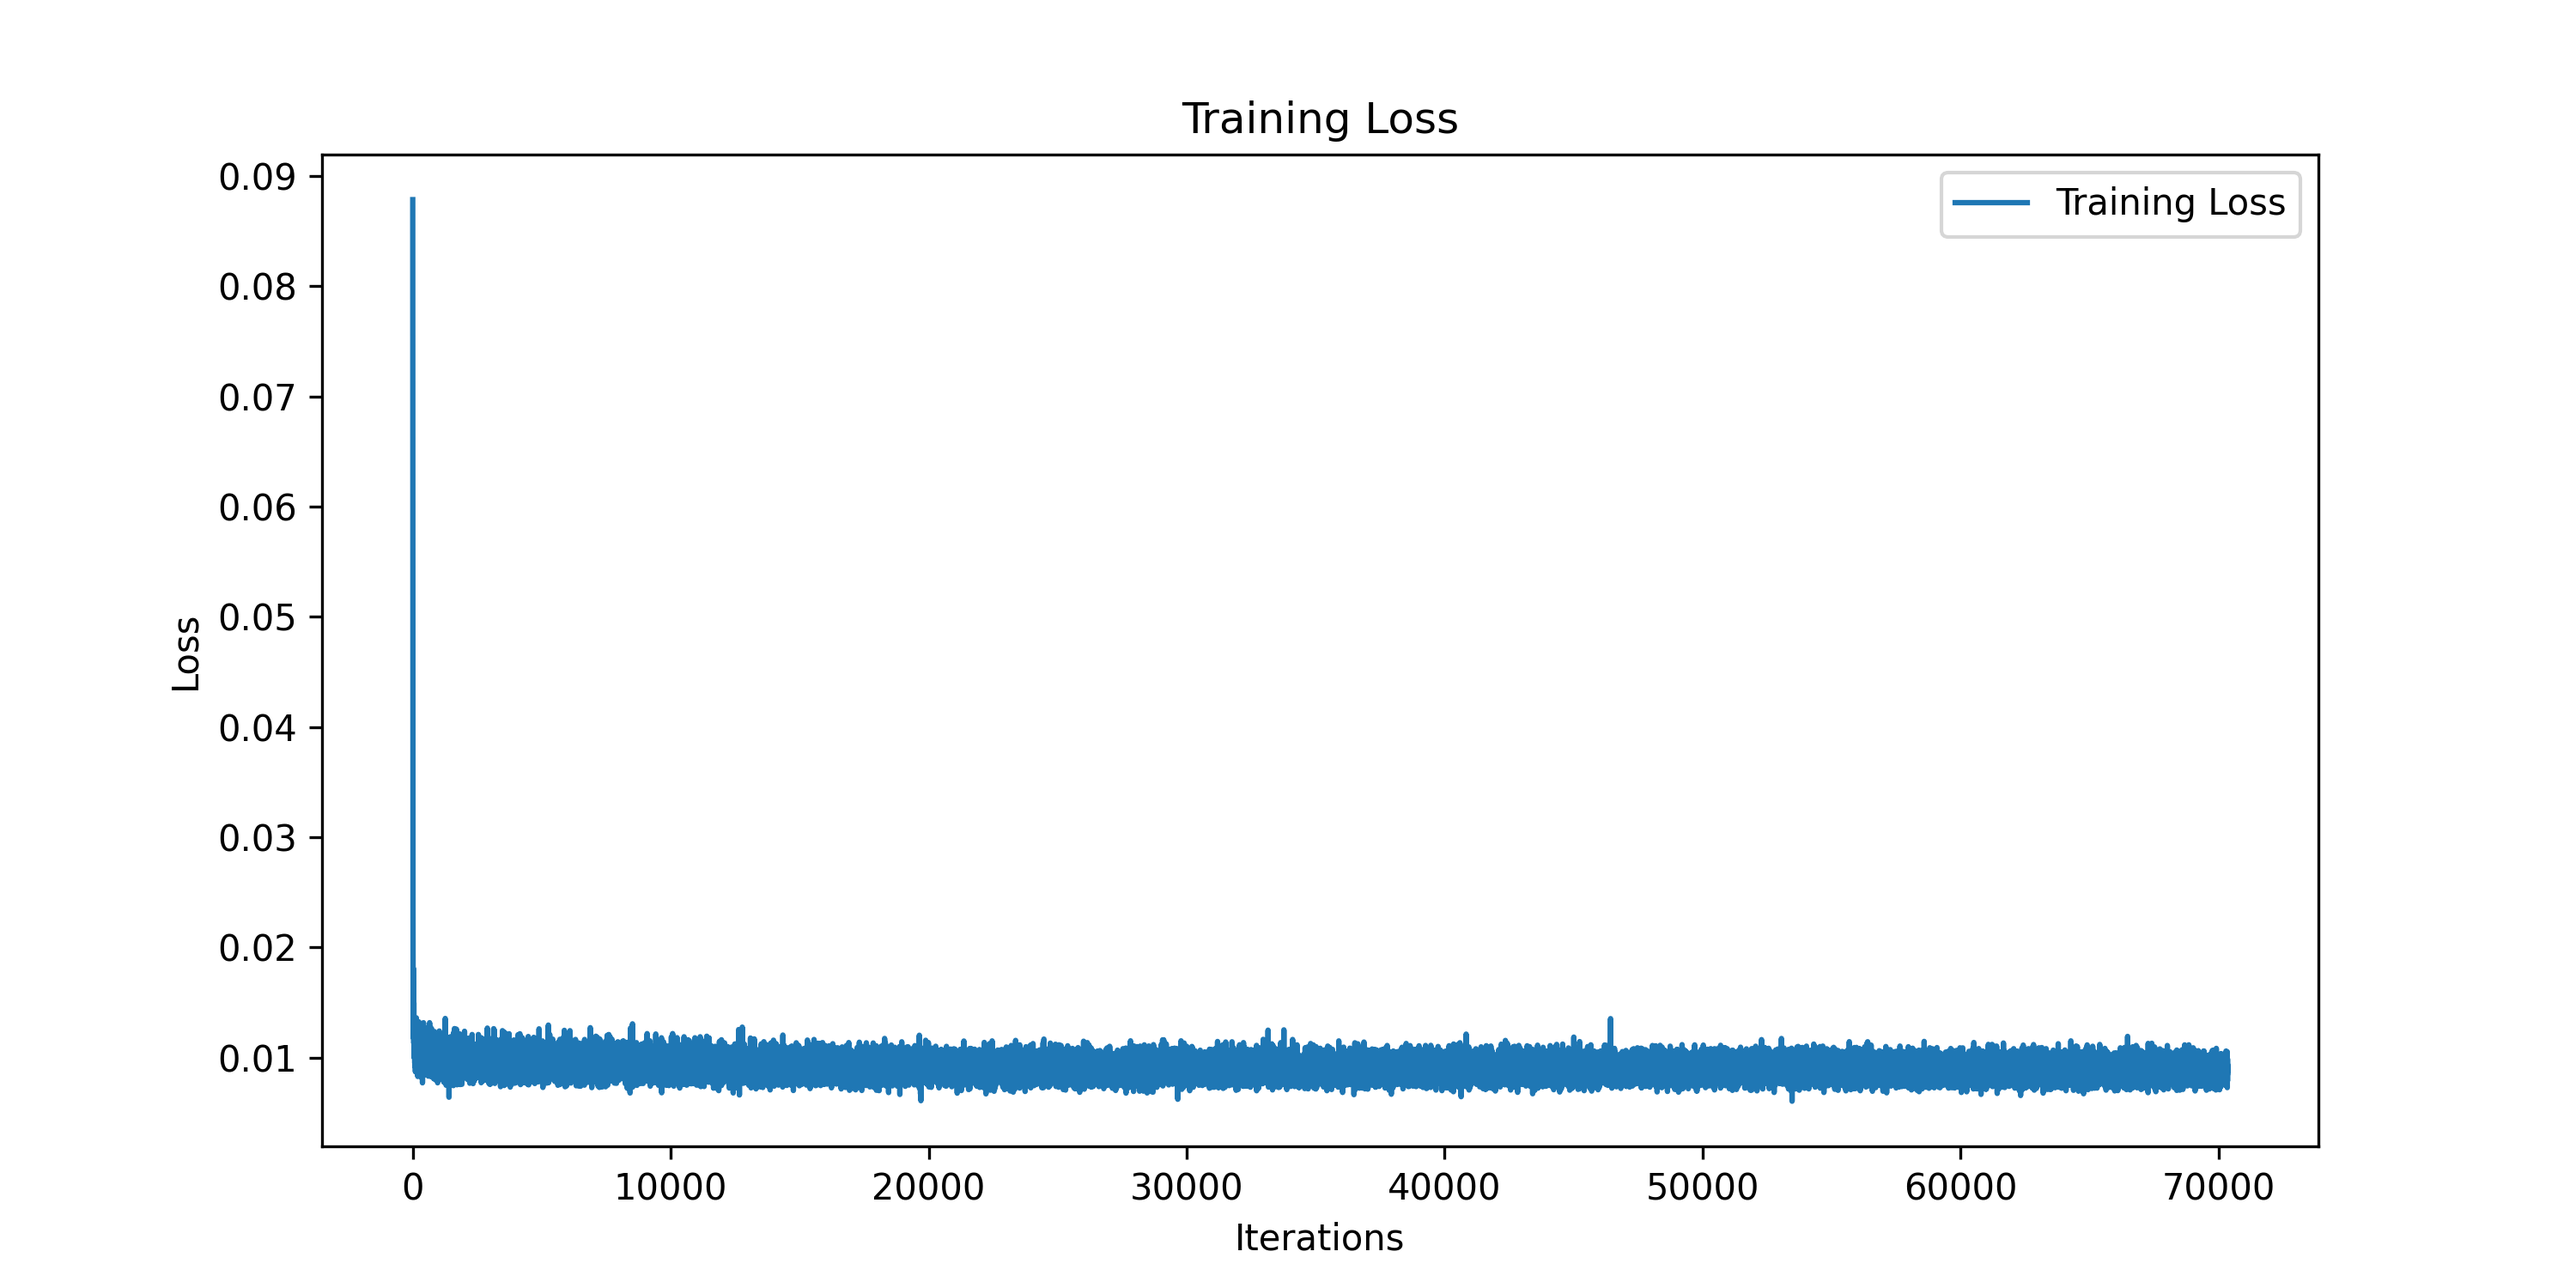
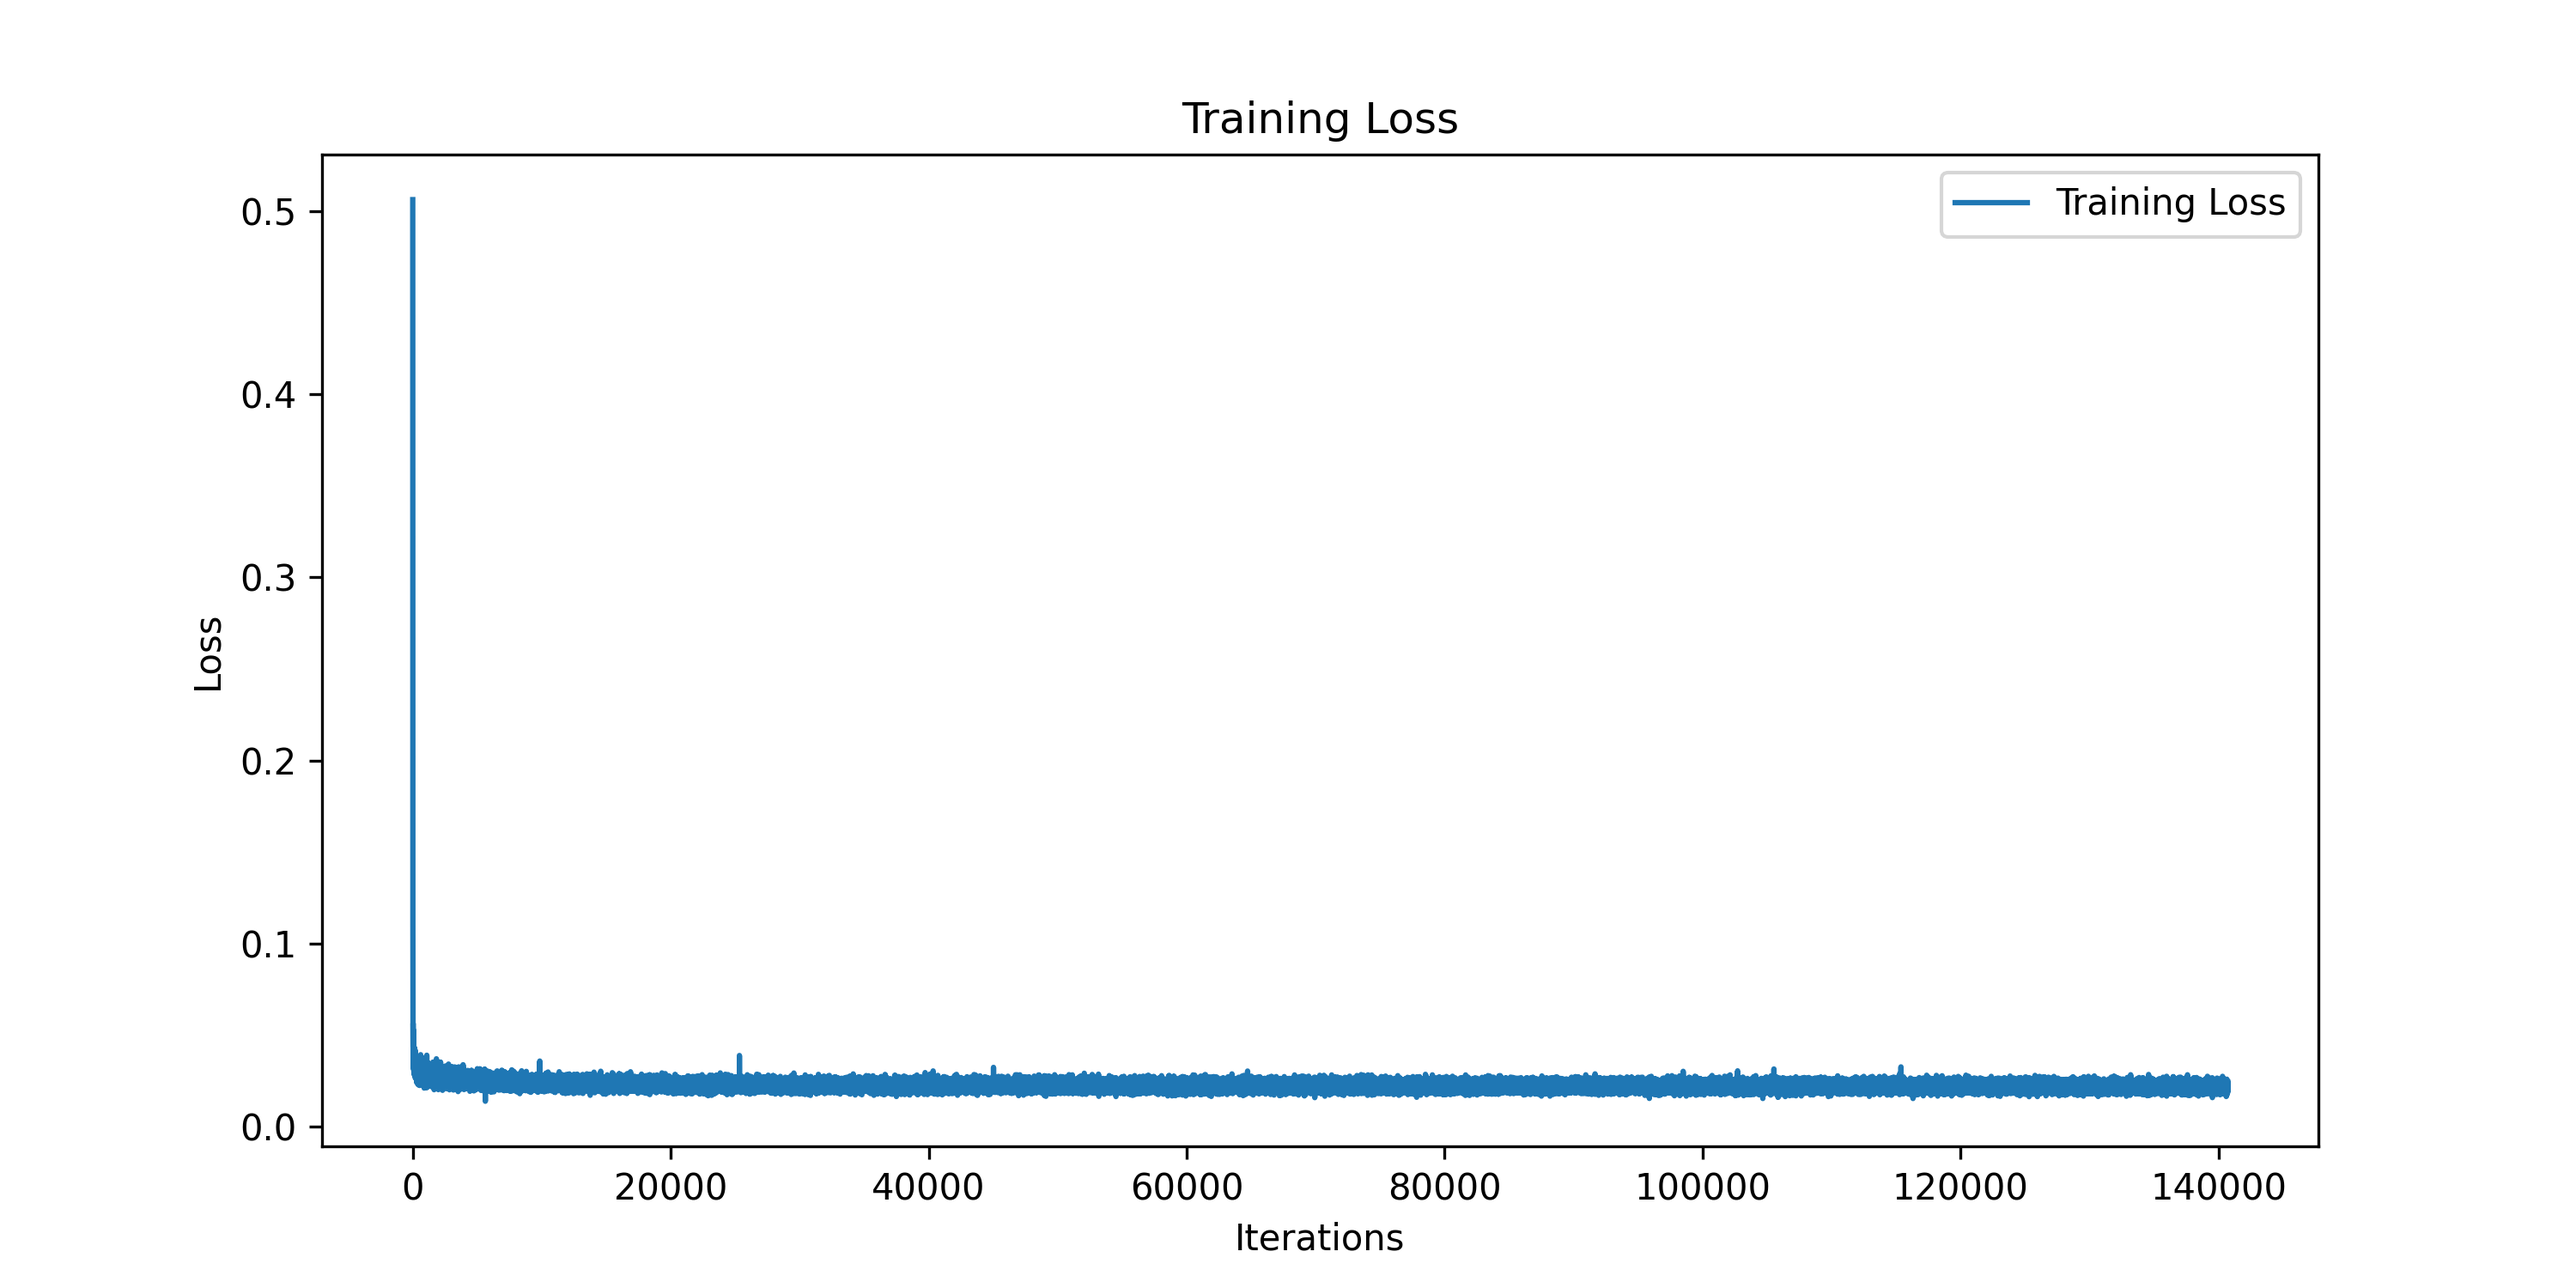
training for pathmnist with 4 hidden dims

diff --git a/models/vanilla_vae.py b/models/vanilla_vae.py
@@ -1,94 +1,129 @@
 import torch
 from torch import nn
 from torch.nn import functional as F
-from typing import List, TypeVar, Tuple
+from abc import abstractmethod
+from typing import List, Callable, Union, Any, TypeVar, Tuple
 from models.base_vae import BaseVAE
 
 Tensor = TypeVar('Tensor')
 
+#Define vanilla VAE class
 class VanillaVAE(BaseVAE):
-    def __init__(
-        self,
-        in_channels: int,       # e.g. 1 or 3 for MedMNIST
-        latent_dim: int,
-        hidden_dims: List = None,
-        **kwargs
-    ) -> None:
+
+
+    def __init__(self,
+                 in_channels: int,
+                 latent_dim: int,
+                 hidden_dims: List = None,
+                 **kwargs) -> None:
         super(VanillaVAE, self).__init__()
 
         self.latent_dim = latent_dim
-        self.in_channels = in_channels
-
-        if hidden_dims is None:
-            hidden_dims = [32, 64, 128]
 
         modules = []
+        if hidden_dims is None:
+            # hidden_dims = [32, 64, 128, 256, 256, 512, 512]
+            hidden_dims = [32, 64, 128, 256,]
+
+        # Build Encoder
         for h_dim in hidden_dims:
             modules.append(
                 nn.Sequential(
-                    nn.Conv2d(in_channels, out_channels=h_dim, kernel_size=3, stride=2, padding=1),
+                    nn.Conv2d(in_channels, out_channels=h_dim,
+                              kernel_size= 3, stride= 2, padding  = 1),
                     nn.BatchNorm2d(h_dim),
                     nn.LeakyReLU())
             )
             in_channels = h_dim
 
         self.encoder = nn.Sequential(*modules)
+        self.fc_mu = nn.Linear(hidden_dims[-1]*4, latent_dim)
+        self.fc_var = nn.Linear(hidden_dims[-1]*4, latent_dim)
 
-        # Assuming image is downsampled to 128 x 4 x 4 after 3 convs on 28x28 input
-        self.last_conv_shape = (hidden_dims[-1], 4, 4)
-        self.fc_mu = nn.Linear(hidden_dims[-1]*4*4, latent_dim)
-        self.fc_var = nn.Linear(hidden_dims[-1]*4*4, latent_dim)
 
-        # Decoder
-        self.decoder_input = nn.Linear(latent_dim, hidden_dims[-1]*4*4)
+        # Build Decoder
+        modules = []
+
+        self.decoder_input = nn.Linear(latent_dim, hidden_dims[-1] * 4)
 
         hidden_dims.reverse()
-        modules = []
+
         for i in range(len(hidden_dims) - 1):
             modules.append(
                 nn.Sequential(
                     nn.ConvTranspose2d(hidden_dims[i],
                                        hidden_dims[i + 1],
                                        kernel_size=3,
-                                       stride=2,
+                                       stride = 2,
                                        padding=1,
                                        output_padding=1),
                     nn.BatchNorm2d(hidden_dims[i + 1]),
                     nn.LeakyReLU())
             )
 
+
+
         self.decoder = nn.Sequential(*modules)
 
         self.final_layer = nn.Sequential(
-            nn.ConvTranspose2d(hidden_dims[-1],
-                               hidden_dims[-1],
-                               kernel_size=3,
-                               stride=2,
-                               padding=1,
-                               output_padding=1),
-            nn.BatchNorm2d(hidden_dims[-1]),
-            nn.LeakyReLU(),
-            nn.Conv2d(hidden_dims[-1], out_channels=self.in_channels, kernel_size=3, padding=1),
-            nn.Sigmoid()  # output in [0,1] range for normalized images
-        )
+                            nn.ConvTranspose2d(hidden_dims[-1],
+                                               hidden_dims[-1],
+                                               kernel_size=3,
+                                               stride=2,
+                                               padding=1,
+                                               output_padding=1),
+                            nn.BatchNorm2d(hidden_dims[-1]),
+                            nn.LeakyReLU(),
+                            nn.Conv2d(hidden_dims[-1], out_channels= 3,
+                                      kernel_size= 3, padding= 1),
+                            nn.Tanh())
 
     def encode(self, input: Tensor) -> List[Tensor]:
+        """
+        Encodes the input by passing through the encoder network
+        and returns the latent codes.
+        :param input: (Tensor) Input tensor to encoder [N x C x H x W]
+        :return: (Tensor) List of latent codes
+        """
+        # print(f"input shape: {input.shape}")
         result = self.encoder(input)
+        # print(f"before flatten: {result.shape}")
+
         result = torch.flatten(result, start_dim=1)
+        # print(f"after flatten: {result.shape}")
+
+        # Split the result into mu and var components
+        # of the latent Gaussian distribution
         mu = self.fc_mu(result)
         log_var = self.fc_var(result)
+        # print(f"mu shape: {mu.shape}")
+        # print(f"log_var shape: {log_var.shape}")
+
         return [mu, log_var]
 
     def decode(self, z: Tensor) -> Tensor:
+        """
+        Maps the given latent codes
+        onto the image space.
+        :param z: (Tensor) [B x D]
+        :return: (Tensor) [B x C x H x W]
+        """
+        # print(f"z: {z.shape}")
         result = self.decoder_input(z)
-        result = result.view(-1, *self.last_conv_shape)
+        result = result.view(-1, 256, 2, 2)
         result = self.decoder(result)
         result = self.final_layer(result)
-        if result.shape[2] != 28 or result.shape[3] != 28:
-            result = result[:, :, :28, :28]
+        # print(f"final result shape: {result.shape}")
         return result
 
     def reparameterize(self, mu: Tensor, logvar: Tensor) -> Tensor:
+        """
+        Reparameterization trick to sample from N(mu, var) from
+        N(0,1).
+        :param mu: (Tensor) Mean of the latent Gaussian [B x D]
+        :param logvar: (Tensor) Standard deviation of the latent Gaussian [B x D]
+        :return: (Tensor) [B x D]
+        """
         std = torch.exp(0.5 * logvar)
         eps = torch.randn_like(std)
         return eps * std + mu
@@ -96,29 +131,57 @@ class VanillaVAE(BaseVAE):
     def forward(self, input: Tensor, **kwargs) -> List[Tensor]:
         mu, log_var = self.encode(input)
         z = self.reparameterize(mu, log_var)
-        return [self.decode(z), input, mu, log_var]
+        return  [self.decode(z), input, mu, log_var]
 
-    def loss_function(self, *args, **kwargs) -> dict:
+    def loss_function(self,
+                      *args,
+                      **kwargs) -> dict:
+        """
+        Computes the VAE loss function.
+        KL(N(\mu, \sigma), N(0, 1)) = \log \frac{1}{\sigma} + \frac{\sigma^2 + \mu^2}{2} - \frac{1}{2}
+        :param args:
+        :param kwargs:
+        :return:
+        """
+
         recons = args[0]
         input = args[1]
         mu = args[2]
         log_var = args[3]
+        # print(f"recons shape: {recons.shape}")
+        # print(f"input shape: {input.shape}")
+        kld_weight = kwargs['M_N'] # Account for the minibatch samples from the dataset
+        recons_loss =F.mse_loss(recons, input)
 
-        kld_weight = kwargs['M_N']
-        recons_loss = F.mse_loss(recons, input)
 
-        kld_loss = torch.mean(-0.5 * torch.sum(1 + log_var - mu ** 2 - log_var.exp(), dim=1), dim=0)
+        kld_loss = torch.mean(-0.5 * torch.sum(1 + log_var - mu ** 2 - log_var.exp(), dim = 1), dim = 0)
+
         loss = recons_loss + kld_weight * kld_loss
+        return {'loss': loss, 'Reconstruction_Loss':recons_loss.detach(), 'KLD':-kld_loss.detach()}
 
-        return {
-            'loss': loss,
-            'Reconstruction_Loss': recons_loss.detach(),
-            'KLD': -kld_loss.detach()
-        }
+    def sample(self,
+               num_samples:int,
+               current_device: int, **kwargs) -> Tensor:
+        """
+        Samples from the latent space and return the corresponding
+        image space map.
+        :param num_samples: (Int) Number of samples
+        :param current_device: (Int) Device to run the model
+        :return: (Tensor)
+        """
+        z = torch.randn(num_samples,
+                        self.latent_dim)
 
-    def sample(self, num_samples: int, current_device: int, **kwargs) -> Tensor:
-        z = torch.randn(num_samples, self.latent_dim).to(current_device)
-        return self.decode(z)
+        z = z.to(current_device)
+
+        samples = self.decode(z)
+        return samples
 
     def generate(self, x: Tensor, **kwargs) -> Tensor:
+        """
+        Given an input image x, returns the reconstructed image
+        :param x: (Tensor) [B x C x H x W]
+        :return: (Tensor) [B x C x H x W]
+        """
+
         return self.forward(x)[0]

diff --git a/visualizer.py b/visualizer.py
@@ -2,7 +2,7 @@ import os
 import matplotlib.pyplot as plt
 import torch
 
-def test_and_plot(model, test_loader, device, epoch, save_dir, num_images=8):
+def test_and_plot(model, test_loader, device, epoch, save_dir, num_images=20):
     model.eval()
     os.makedirs(os.path.join(save_dir, "test_output"), exist_ok=True)
 
@@ -15,32 +15,34 @@ def test_and_plot(model, test_loader, device, epoch, save_dir, num_images=8):
             inputs = inputs[:num_images].cpu()
             recon = recon[:num_images].cpu()
 
-            fig, axes = plt.subplots(2, num_images, figsize=(2 * num_images, 4))
+            cols = num_images // 2
+            fig, axes = plt.subplots(4, cols, figsize=(cols * 2, 8))
 
             for i in range(num_images):
+                row_offset = 0 if i < cols else 1
+                col = i % cols
+
                 # --- Input image ---
                 img = inputs[i]
                 if img.shape[0] == 1:
                     img = img.squeeze(0)
-                    axes[0, i].imshow(img, cmap='gray')
+                    axes[row_offset, col].imshow(img, cmap='gray')
                 else:
-                    img = img.permute(1, 2, 0)  # (C, H, W) → (H, W, C)
-                    axes[0, i].imshow(img)
-
-                axes[0, i].axis('off')
+                    img = img.permute(1, 2, 0)
+                    axes[row_offset, col].imshow(img)
+                axes[row_offset, col].axis('off')
 
                 # --- Reconstructed image ---
                 recon_img = recon[i]
                 if recon_img.shape[0] == 1:
                     recon_img = recon_img.squeeze(0)
-                    axes[1, i].imshow(recon_img, cmap='gray')
+                    axes[row_offset + 2, col].imshow(recon_img, cmap='gray')
                 else:
                     recon_img = recon_img.permute(1, 2, 0)
-                    axes[1, i].imshow(recon_img)
+                    axes[row_offset + 2, col].imshow(recon_img)
+                axes[row_offset + 2, col].axis('off')
 
-                axes[1, i].axis('off')
-
-            plt.suptitle(f"Top: Original — Bottom: Reconstruction (Epoch {epoch})")
+            plt.suptitle(f"Top 2 Rows: Original — Bottom 2 Rows: Reconstruction (Epoch {epoch})")
             out_path = os.path.join(save_dir, "test_output", f"epoch_{epoch}.png")
             plt.savefig(out_path)
             plt.close()

diff --git a/dataset.py b/dataset.py
@@ -18,11 +18,6 @@ from pytorch_lightning import LightningDataModule
 from medmnist.dataset import PathMNIST, ChestMNIST, DermaMNIST
 
 
-DATASET_CLASSES = {
-    "PathMNIST": PathMNIST,
-    "ChestMNIST": ChestMNIST,
-    "DermaMNIST": DermaMNIST,
-}
 # Add your custom dataset class here
 class MyDataset(Dataset):
     def __init__(self):
@@ -74,27 +69,21 @@ class VAEDataset(LightningDataModule):
 
     def setup(self, stage: Optional[str] = None) -> None:
         info = INFO[self.data_name]
-        dataset_class_name = info["python_class"]
-        dataset_class = DATASET_CLASSES[dataset_class_name] 
-        # DataClass = getattr(medmnist, info['python_class'])
+        DataClass = getattr(medmnist, info['python_class'])
 
         chest_transforms = transforms.Compose([
             transforms.ToTensor(),
-            # transforms.CenterCrop(28),
-            # transforms.Resize(28),
-            # transforms.Normalize(mean=[.5], std=[.5])
+            transforms.CenterCrop(32),
+            transforms.Resize(32),
+            transforms.Normalize(mean=[.5], std=[.5])
         ])
 
-        # chest_transforms = transforms.Compose([
-        #     transforms.ToTensor(),
-        #     transforms.Lambda(lambda x: x.repeat(3, 1, 1) if x.shape[0] == 1 else x),  # Convert 1-channel to 3-channel
-        #     transforms.Resize((28, 28)),  # Resize to the expected input size
-        # ])
-
-        self.train_dataset = dataset_class(split='train', transform=chest_transforms, download=True)
 
 
-        self.val_dataset = dataset_class(split='test', transform=chest_transforms, download=True)
+        self.train_dataset = DataClass(split='train', transform=chest_transforms, download=True)
+
+
+        self.val_dataset = DataClass(split='test', transform=chest_transforms, download=True)
 
         
     def train_dataloader(self) -> DataLoader:

diff --git a/run_vanilla_vae.py b/run_vanilla_vae.py
@@ -19,13 +19,13 @@ def main():
             'model_params': {
                 'name': 'VanillaVAE',
                 'in_channels': 3,         # Change to 3 if using RGB version of MedMNIST
-                'latent_dim': 28
+                'latent_dim': 128
             },
             'data_params': {
                 'data_path': "Data/",
                 'train_batch_size': 64,
                 'val_batch_size': 64,
-                'patch_size': 28,         # MedMNIST images are 28x28
+                'patch_size': 32,         # MedMNIST images are 28x28
                 'data_name': 'pathmnist', # Change based on MedMNIST subset you're using
                 'num_workers': 4,
             },
@@ -37,7 +37,7 @@ def main():
                 'manual_seed': 42
             },
             'trainer_params': {
-                'max_epochs': 50,
+                'max_epochs': 100,
                 'accelerator': 'auto',
                 'devices': 1
             },
@@ -77,7 +77,7 @@ def main():
         test_loader=data.train_dataloader(),
         save_dir=os.path.join(tb_logger.log_dir, "plots"),
         interval=1,  # or whatever interval you like
-        num_images=8
+        num_images=20
     )
     # Trainer
     runner = Trainer(

diff --git a/experiment.py b/experiment.py
@@ -97,7 +97,7 @@ class VAEXperiment(pl.LightningModule):
                           nrow=12)
 
         try:
-            samples = self.model.sample(20,
+            samples = self.model.sample(144,
                                         self.curr_device,
                                         labels = test_label)
             vutils.save_image(samples.cpu().data,
